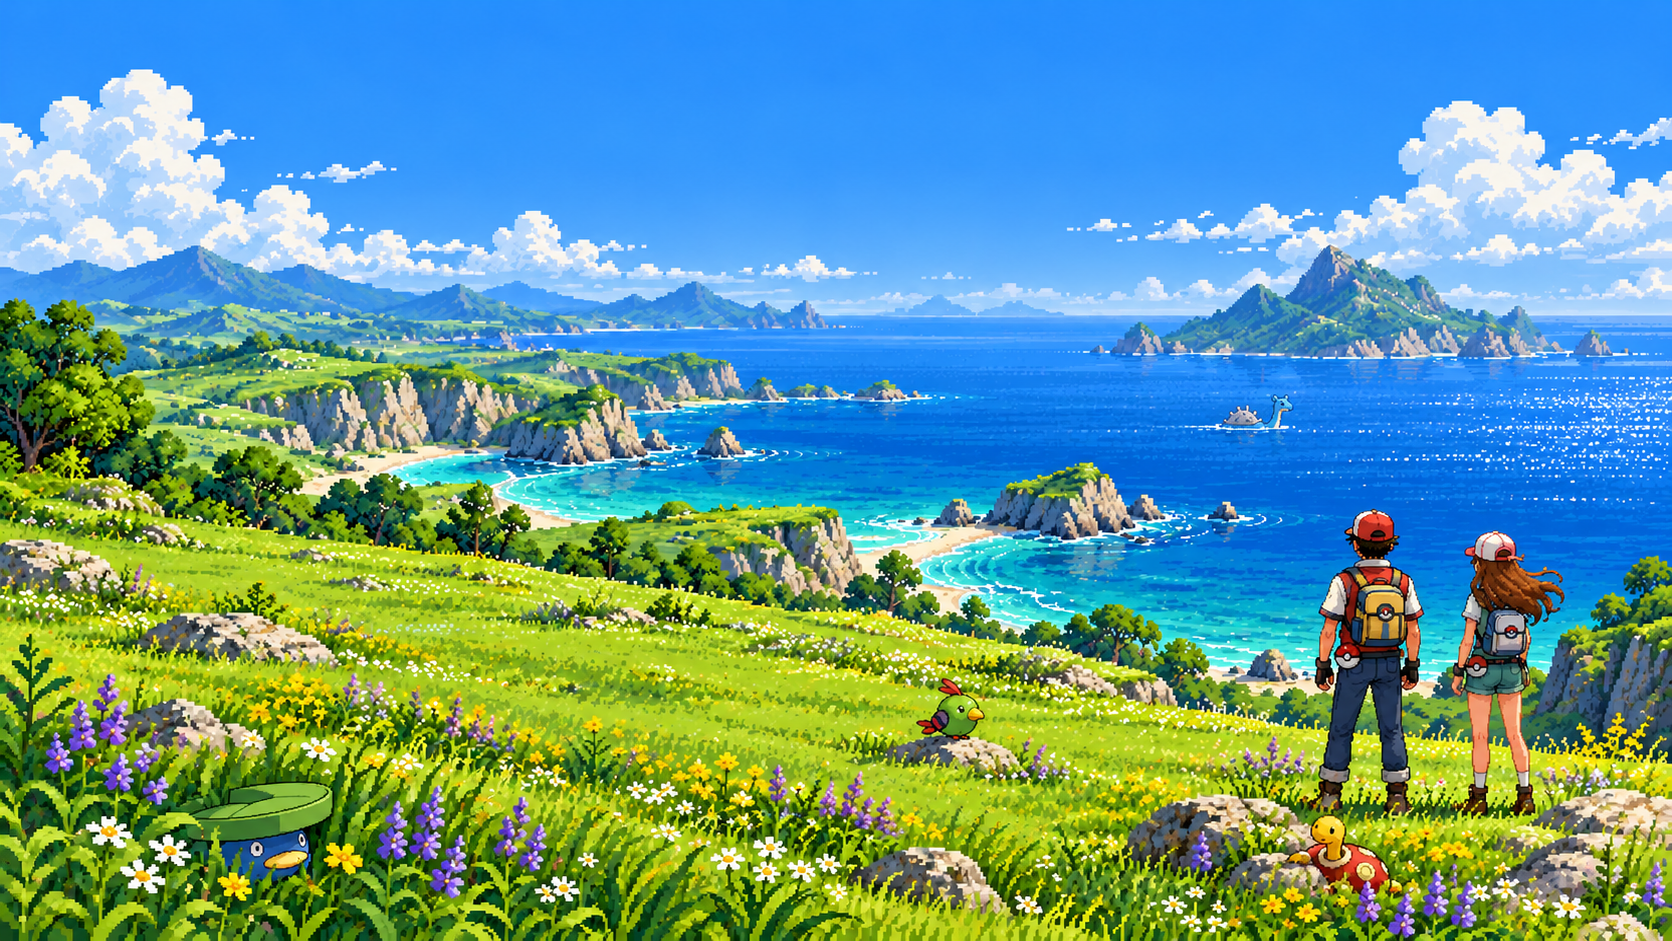
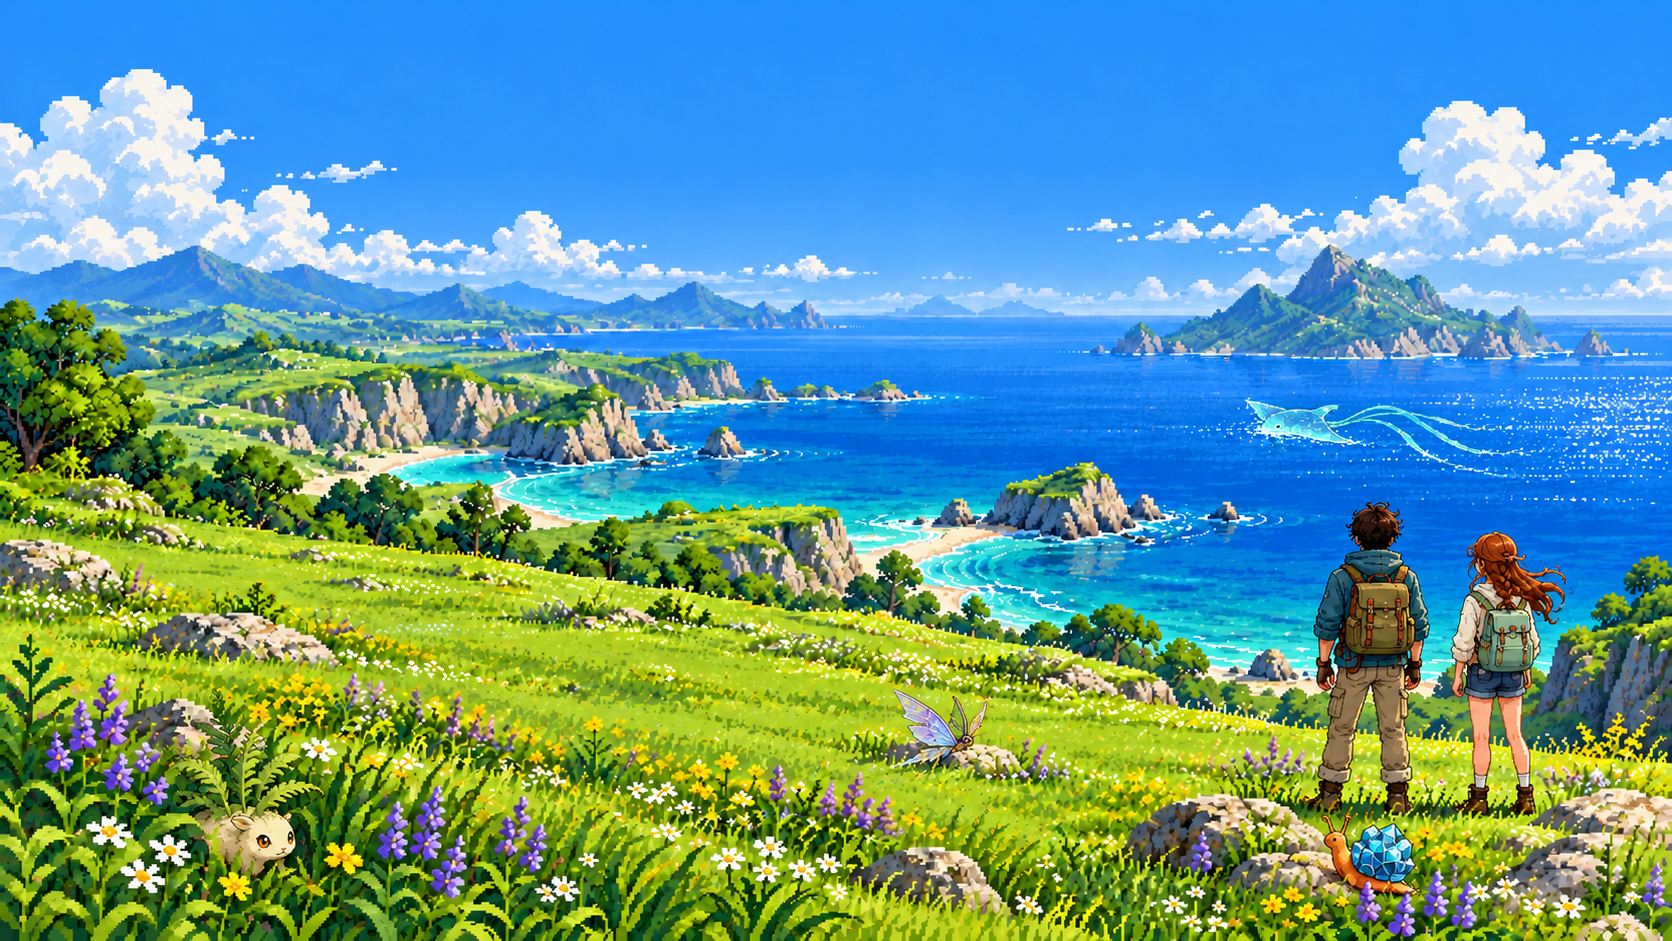
Cambiar identidad a PK Link con paisaje y música originales

diff --git a/index.html b/index.html
@@ -1,17 +1,17 @@
 <!doctype html>
 <html lang="es">
-<head><meta charset="utf-8"><meta name="viewport" content="width=device-width, initial-scale=1"><meta name="description" content="Pokémon Link para Windows: prepara sesiones de intercambio y combate con tus partidas de Pokémon GBA."><link rel="icon" href="link-l.png" type="image/png"><title>Pokémon Link · Intercambia. Combate. Lleva tu aventura más lejos.</title>
+<head><meta charset="utf-8"><meta name="viewport" content="width=device-width, initial-scale=1"><meta name="description" content="PK Link para Windows: prepara sesiones de intercambio y combate con tus partidas de Pokémon GBA."><link rel="icon" href="link-l.png" type="image/png"><title>PK Link · Intercambia. Combate. Lleva tu aventura más lejos.</title>
 <style>
-:root{--ink:#102e3b;--green:#b4f772;--blue:#69dcff;--paper:#f4ffe8}*{box-sizing:border-box}html{scroll-behavior:smooth}body{margin:0;background:var(--paper);color:var(--ink);font:17px/1.65 'Bahnschrift','Segoe UI',sans-serif}a{color:inherit}button,a{touch-action:manipulation}a:focus-visible,summary:focus-visible{outline:4px solid #167dff;outline-offset:5px}header{position:absolute;z-index:2;width:100%;padding:24px 6%;display:flex;align-items:center;justify-content:space-between;gap:20px;color:white;background:linear-gradient(#092b4590,transparent)}.brand{font-weight:900;letter-spacing:2px;text-decoration:none}.nav{display:flex;gap:24px}.nav a{text-decoration:none;font-size:14px;font-weight:700}.hero{min-height:760px;height:95vh;max-height:1060px;position:relative;display:flex;align-items:center;background:#2ea8dd url('inicio.png') center/cover no-repeat}.hero:before{content:'';position:absolute;inset:0;background:linear-gradient(90deg,#062b47df 0%,#062b47a0 42%,#062b4700 80%)}.hero:after{content:'';position:absolute;bottom:0;left:0;right:0;height:14px;background:repeating-linear-gradient(90deg,var(--paper) 0 24px,transparent 24px 48px);border-bottom:7px solid var(--paper)}.hero-content{position:relative;width:min(690px,90%);margin:110px 0 70px 7%;color:white}.logos{width:min(460px,95%);display:flex;align-items:center;flex-direction:column;gap:0;margin-bottom:22px}.pokemon{width:92%;height:auto}.link{width:57%;height:auto;margin-top:-14px}.tag{font:700 12px/1.4 monospace;letter-spacing:2px;text-transform:uppercase;background:#102e3be0;border:1px solid #8adcf3;padding:8px 12px;display:inline-block}h1{font-size:clamp(35px,4.4vw,60px);line-height:1.12;letter-spacing:-2px;margin:22px 0}h1 span{color:var(--green)}.hero p{max-width:470px;color:#e2f7ff;font-size:19px}.actions{display:flex;gap:18px;align-items:center;flex-wrap:wrap;margin-top:30px}.button{display:inline-flex;align-items:center;justify-content:center;padding:15px 24px;font-weight:800;text-decoration:none;background:var(--green);color:#123723;border:3px solid #102e3b;box-shadow:5px 5px 0 #102e3b;border-radius:12px 4px 12px 4px;transition:transform .15s,box-shadow .15s}.button:hover{transform:translate(-2px,-2px);box-shadow:7px 7px 0 #102e3b}.secondary{background:#effcff;color:#17374c}.small{font-size:12px;color:#d9f3ff;margin-top:17px}.wrap{max-width:1120px;margin:auto;padding:72px 28px}.eyebrow{font:800 12px monospace;letter-spacing:3px;color:#3b7668;text-transform:uppercase}h2{font-size:clamp(28px,4vw,43px);line-height:1.2;letter-spacing:-1px;margin:12px 0 24px}.intro{max-width:710px;color:#4d6263}.features{display:grid;grid-template-columns:1fr 1fr;gap:26px;margin-top:35px}.feature{background:white;padding:30px;border:2px solid var(--ink);box-shadow:6px 6px 0 #c4ddb5}.feature h3{font-size:25px;margin:8px 0}.feature p{margin-bottom:0;color:#506361}.pixel-icon{font:bold 32px monospace;color:#15759d}.compat{margin-top:28px;border-left:5px solid #488c51;padding:8px 20px;background:#e4f1d8}.dark{background:#112f40;color:white}.dark .eyebrow{color:var(--blue)}.steps{display:grid;grid-template-columns:repeat(3,1fr);gap:30px;margin-top:34px}.step-num{display:inline-block;font:bold 24px monospace;color:var(--green);border:2px solid #70b285;padding:3px 12px}.steps h3{font-size:21px}.steps p{color:#c3d7de}.note{padding:16px 20px;border:1px solid #5e8491;color:#c3d7de;margin-top:30px}.download{background:#d7f6bb;border:2px solid var(--ink);box-shadow:8px 8px 0 #bdd3ae;padding:36px;display:flex;gap:30px;align-items:center;justify-content:space-between;margin-bottom:56px}.download h2{margin:8px 0;font-size:32px}.download p{margin:6px 0;max-width:640px}.download .button{white-space:nowrap;background:var(--blue)}details{border-top:1px solid #c2d6bb;padding:20px 0}details:last-of-type{border-bottom:1px solid #c2d6bb}summary{cursor:pointer;font-weight:750;font-size:18px}details p{max-width:830px;color:#506361}footer{padding:30px 6%;border-top:2px solid var(--ink);font-size:12px;color:#596d63;display:flex;justify-content:space-between;gap:28px}footer p{margin:0;max-width:760px}@media(max-width:760px){header{padding:18px 6%}.nav{gap:14px}.nav a{font-size:12px}.hero{height:auto;min-height:760px;background-position:65% center}.hero:before{background:linear-gradient(90deg,#062b47df,#062b4770)}.hero-content{margin:130px 6% 70px;width:88%}.features,.steps{grid-template-columns:1fr}.wrap{padding:50px 22px}.download{display:block;padding:25px}.download .button{margin-top:22px}footer{flex-direction:column}.logos{width:330px;max-width:100%}}@media(prefers-reduced-motion:reduce){html{scroll-behavior:auto}.button{transition:none}}
+:root{--ink:#102e3b;--green:#b4f772;--blue:#69dcff;--paper:#f4ffe8}*{box-sizing:border-box}html{scroll-behavior:smooth}body{margin:0;background:var(--paper);color:var(--ink);font:17px/1.65 'Bahnschrift','Segoe UI',sans-serif}a{color:inherit}button,a{touch-action:manipulation}a:focus-visible,summary:focus-visible{outline:4px solid #167dff;outline-offset:5px}header{position:absolute;z-index:2;width:100%;padding:24px 6%;display:flex;align-items:center;justify-content:space-between;gap:20px;color:white;background:linear-gradient(#092b4590,transparent)}.brand{font-weight:900;letter-spacing:2px;text-decoration:none}.nav{display:flex;gap:24px}.nav a{text-decoration:none;font-size:14px;font-weight:700}.hero{min-height:760px;height:95vh;max-height:1060px;position:relative;display:flex;align-items:center;background:#2ea8dd url('inicio.png') center/cover no-repeat}.hero:before{content:'';position:absolute;inset:0;background:linear-gradient(90deg,#062b47df 0%,#062b47a0 42%,#062b4700 80%)}.hero:after{content:'';position:absolute;bottom:0;left:0;right:0;height:14px;background:repeating-linear-gradient(90deg,var(--paper) 0 24px,transparent 24px 48px);border-bottom:7px solid var(--paper)}.hero-content{position:relative;width:min(690px,90%);margin:110px 0 70px 7%;color:white}.logos{width:min(460px,95%);display:flex;align-items:center;flex-direction:column;gap:0;margin-bottom:22px}.pk{width:92%;height:auto}.link{width:57%;height:auto;margin-top:-14px}.tag{font:700 12px/1.4 monospace;letter-spacing:2px;text-transform:uppercase;background:#102e3be0;border:1px solid #8adcf3;padding:8px 12px;display:inline-block}h1{font-size:clamp(35px,4.4vw,60px);line-height:1.12;letter-spacing:-2px;margin:22px 0}h1 span{color:var(--green)}.hero p{max-width:470px;color:#e2f7ff;font-size:19px}.actions{display:flex;gap:18px;align-items:center;flex-wrap:wrap;margin-top:30px}.button{display:inline-flex;align-items:center;justify-content:center;padding:15px 24px;font-weight:800;text-decoration:none;background:var(--green);color:#123723;border:3px solid #102e3b;box-shadow:5px 5px 0 #102e3b;border-radius:12px 4px 12px 4px;transition:transform .15s,box-shadow .15s}.button:hover{transform:translate(-2px,-2px);box-shadow:7px 7px 0 #102e3b}.secondary{background:#effcff;color:#17374c}.small{font-size:12px;color:#d9f3ff;margin-top:17px}.wrap{max-width:1120px;margin:auto;padding:72px 28px}.eyebrow{font:800 12px monospace;letter-spacing:3px;color:#3b7668;text-transform:uppercase}h2{font-size:clamp(28px,4vw,43px);line-height:1.2;letter-spacing:-1px;margin:12px 0 24px}.intro{max-width:710px;color:#4d6263}.features{display:grid;grid-template-columns:1fr 1fr;gap:26px;margin-top:35px}.feature{background:white;padding:30px;border:2px solid var(--ink);box-shadow:6px 6px 0 #c4ddb5}.feature h3{font-size:25px;margin:8px 0}.feature p{margin-bottom:0;color:#506361}.pixel-icon{font:bold 32px monospace;color:#15759d}.compat{margin-top:28px;border-left:5px solid #488c51;padding:8px 20px;background:#e4f1d8}.dark{background:#112f40;color:white}.dark .eyebrow{color:var(--blue)}.steps{display:grid;grid-template-columns:repeat(3,1fr);gap:30px;margin-top:34px}.step-num{display:inline-block;font:bold 24px monospace;color:var(--green);border:2px solid #70b285;padding:3px 12px}.steps h3{font-size:21px}.steps p{color:#c3d7de}.note{padding:16px 20px;border:1px solid #5e8491;color:#c3d7de;margin-top:30px}.download{background:#d7f6bb;border:2px solid var(--ink);box-shadow:8px 8px 0 #bdd3ae;padding:36px;display:flex;gap:30px;align-items:center;justify-content:space-between;margin-bottom:56px}.download h2{margin:8px 0;font-size:32px}.download p{margin:6px 0;max-width:640px}.download .button{white-space:nowrap;background:var(--blue)}details{border-top:1px solid #c2d6bb;padding:20px 0}details:last-of-type{border-bottom:1px solid #c2d6bb}summary{cursor:pointer;font-weight:750;font-size:18px}details p{max-width:830px;color:#506361}footer{padding:30px 6%;border-top:2px solid var(--ink);font-size:12px;color:#596d63;display:flex;justify-content:space-between;gap:28px}footer p{margin:0;max-width:760px}@media(max-width:760px){header{padding:18px 6%}.nav{gap:14px}.nav a{font-size:12px}.hero{height:auto;min-height:760px;background-position:65% center}.hero:before{background:linear-gradient(90deg,#062b47df,#062b4770)}.hero-content{margin:130px 6% 70px;width:88%}.features,.steps{grid-template-columns:1fr}.wrap{padding:50px 22px}.download{display:block;padding:25px}.download .button{margin-top:22px}footer{flex-direction:column}.logos{width:330px;max-width:100%}}@media(prefers-reduced-motion:reduce){html{scroll-behavior:auto}.button{transition:none}}
 .creator{position:absolute;right:5%;bottom:35px;display:flex;align-items:center;gap:12px;color:white;font-size:12px;font-weight:700;text-shadow:0 2px 3px #092b45}.creator img{width:110px;height:48px;object-fit:contain}.brand-icon{width:32px;height:32px;vertical-align:middle;margin-right:8px}.feature{border-radius:20px 6px 20px 6px}.button{font-family:Bahnschrift,Segoe UI,sans-serif}.feature .pixel-icon{display:none}@media(max-width:760px){.creator{bottom:24px;right:6%}.hero-content{margin-bottom:105px}}
 </style></head>
 <body>
 <header><a class="brand" href="#inicio"><img class="brand-icon" src="link-l.png" alt="" width="32" height="32">POKÉMON LINK</a><nav class="nav" aria-label="Navegación principal"><a href="#como">Cómo funciona</a><a href="#descargar">Descargar</a></nav></header>
 <main>
-<section class="hero" id="inicio"><div class="hero-content"><div class="logos"><img class="pokemon" src="pokemon-logo.png" alt="Pokémon" width="960" height="353"><img class="link" src="link-logo.png" alt="Link" width="2098" height="750"></div><div class="tag">Tus partidas · Una aventura compartida</div><h1>Intercambia.<br>Combate.<br><span>Lleva tu aventura más lejos.</span></h1><p>Prepara intercambios y combates en tu PC con las partidas que ya juegas en tu consola portátil.</p><div class="actions"><a class="button download-link" href="https://github.com/DaveWall90/pokemon-link-web/releases/download/v0.3.0/Pokemon-Link-Instalador.exe" download>↓ Descargar para Windows</a><a href="#como">Ver cómo funciona →</a></div><div class="small">Versión 0.3.0 · Windows de 64 bits · Instalador de 119 MB</div></div><div class="creator"><span>Creado por</span><img src="ti-logo.png" alt="T&I" width="110" height="48"></div></section>
-<section class="wrap"><div class="eyebrow">Dos jugadores. Tus propias partidas.</div><h2>De la portátil al encuentro.</h2><p class="intro">Pokémon Link reúne la selección de juegos, la preparación de las partidas y los emuladores en un mismo lugar. Trabaja con copias y te permite exportar los guardados al terminar.</p><div class="features"><article class="feature"><div class="pixel-icon" aria-hidden="true">⇄</div><h3>Intercambiar</h3><p>Selecciona una partida por jugador. El programa abre las dos ventanas enlazadas de mGBA; el intercambio se completa dentro de los juegos.</p></article><article class="feature"><div class="pixel-icon" aria-hidden="true">⚔</div><h3>Combatir</h3><p>Prepara el combate clásico. También puedes configurar Colosseum/XD con Dolphin para el modo 3D, cuya conexión completa todavía está en pruebas.</p></article></div><div class="compat"><strong>Esta versión trabaja con Pokémon de GBA:</strong> Rojo Fuego, Verde Hoja, Rubí, Zafiro y Esmeralda. No todas las combinaciones permiten enlazar sin cumplir requisitos dentro del juego.</div></section>
-<section class="dark" id="como"><div class="wrap"><div class="eyebrow">El camino al Centro Pokémon</div><h2>Tres pasos para empezar.</h2><div class="steps"><article><span class="step-num">01</span><h3>Trae tus partidas</h3><p>Guarda dentro del juego y apaga correctamente la consola. Conecta la tarjeta con un lector o elige la carpeta donde tienes los juegos y guardados.</p></article><article><span class="step-num">02</span><h3>Elige a los jugadores</h3><p>Abre Intercambiar o Combatir, sincroniza y selecciona el juego y la partida de cada jugador. Usa teclado o mandos compatibles de PC.</p></article><article><span class="step-num">03</span><h3>Guarda y exporta</h3><p>Completa la sesión en el emulador, guarda dentro de ambos juegos y ciérralo. Exporta las partidas a las tarjetas desde Pokémon Link.</p></article></div><div class="note">mGBA y Dolphin vienen incluidos. Los juegos y la BIOS de GBA se añaden aparte. La lectura por USB depende de tu consola y de su configuración; el lector de tarjetas es la alternativa.</div></div></section>
-<section class="wrap" id="descargar"><div class="download"><div><div class="eyebrow">Listo para tu PC</div><h2>Descarga Pokémon Link.</h2><p>Una interfaz renovada con controles de sonido pixel art, ayuda dentro de Ajustes y la firma T&I. El instalador incluye los emuladores y accesos directos. Tus sesiones y ajustes se conservan al desinstalar.</p><p><small>Windows de 64 bits · Versión 0.3.0 · 119 MB</small></p></div><a class="button download-link" href="https://github.com/DaveWall90/pokemon-link-web/releases/download/v0.3.0/Pokemon-Link-Instalador.exe" download>↓ Descargar</a></div><div class="eyebrow">Antes de empezar</div><h2>Lo que conviene saber.</h2><details><summary>¿Funciona con cualquier consola portátil?</summary><p>Puede utilizar los juegos y guardados compatibles que estén accesibles en el PC. No convierte cualquier conexión USB en acceso a las tarjetas ni utiliza las consolas como mandos. Si el PC no ve los archivos, usa un lector de tarjetas.</p></details><details><summary>¿Ya está todo probado?</summary><p>Están comprobados el instalador y la preparación de los guardados. La prueba completa de intercambio y combate sigue pendiente. El modo 3D de Colosseum/XD requiere sus archivos y una prueba real de conexión; Stadium y Stadium 2 aún no están integrados.</p></details><details><summary>¿Qué guardado necesito?</summary><p>El guardado creado desde el menú del propio juego, normalmente .sav o .srm. Los estados rápidos del emulador no sirven. Guarda antes de apagar la consola.</p></details><details><summary>¿Incluye los juegos?</summary><p>No. El instalador incluye la aplicación, los emuladores, sus licencias y fuentes. Añade tus archivos de juegos y, para Colosseum/XD, la BIOS de GBA. No subas tus partidas a esta web: la aplicación trabaja en tu PC.</p></details></section>
-</main><footer><p>Pokémon Link · Proyecto fan no oficial. Pokémon y sus personajes pertenecen a sus respectivos titulares. Sin afiliación con Nintendo, Game Freak o The Pokémon Company.</p><a href="#inicio">Volver arriba ↑</a></footer>
+<section class="hero" id="inicio"><div class="hero-content"><div class="logos"><img class="pk" src="pk-logo.png" alt="PK" width="960" height="353"><img class="link" src="link-logo.png" alt="Link" width="2098" height="750"></div><div class="tag">Tus partidas · Una aventura compartida</div><h1>Intercambia.<br>Combate.<br><span>Lleva tu aventura más lejos.</span></h1><p>Prepara intercambios y combates en tu PC con las partidas que ya juegas en tu consola portátil.</p><div class="actions"><a class="button download-link" href="downloads/PK-Link-Instalador.exe" download>↓ Descargar para Windows</a><a href="#como">Ver cómo funciona →</a></div><div class="small">Versión 0.4.0 · Windows de 64 bits · Instalador de 119 MB</div></div><div class="creator"><span>Creado por</span><img src="ti-logo.png" alt="T&I" width="110" height="48"></div></section>
+<section class="wrap"><div class="eyebrow">Dos jugadores. Tus propias partidas.</div><h2>De la portátil al encuentro.</h2><p class="intro">PK Link reúne la selección de juegos, la preparación de las partidas y los emuladores en un mismo lugar. Trabaja con copias y te permite exportar los guardados al terminar.</p><div class="features"><article class="feature"><div class="pixel-icon" aria-hidden="true">⇄</div><h3>Intercambiar</h3><p>Selecciona una partida por jugador. El programa abre las dos ventanas enlazadas de mGBA; el intercambio se completa dentro de los juegos.</p></article><article class="feature"><div class="pixel-icon" aria-hidden="true">⚔</div><h3>Combatir</h3><p>Prepara el combate clásico. También puedes configurar Colosseum/XD con Dolphin para el modo 3D, cuya conexión completa todavía está en pruebas.</p></article></div><div class="compat"><strong>Esta versión trabaja con Pokémon de GBA:</strong> Rojo Fuego, Verde Hoja, Rubí, Zafiro y Esmeralda. No todas las combinaciones permiten enlazar sin cumplir requisitos dentro del juego.</div></section>
+<section class="dark" id="como"><div class="wrap"><div class="eyebrow">Tu próxima sesión</div><h2>Tres pasos para empezar.</h2><div class="steps"><article><span class="step-num">01</span><h3>Trae tus partidas</h3><p>Guarda dentro del juego y apaga correctamente la consola. Conecta la tarjeta con un lector o elige la carpeta donde tienes los juegos y guardados.</p></article><article><span class="step-num">02</span><h3>Elige a los jugadores</h3><p>Abre Intercambiar o Combatir, sincroniza y selecciona el juego y la partida de cada jugador. Usa teclado o mandos compatibles de PC.</p></article><article><span class="step-num">03</span><h3>Guarda y exporta</h3><p>Completa la sesión en el emulador, guarda dentro de ambos juegos y ciérralo. Exporta las partidas a las tarjetas desde PK Link.</p></article></div><div class="note">mGBA y Dolphin vienen incluidos. Los juegos y la BIOS de GBA se añaden aparte. La lectura por USB depende de tu consola y de su configuración; el lector de tarjetas es la alternativa.</div></div></section>
+<section class="wrap" id="descargar"><div class="download"><div><div class="eyebrow">Listo para tu PC</div><h2>Descarga PK Link.</h2><p>Una interfaz renovada con controles de sonido pixel art, ayuda dentro de Ajustes y la firma T&I. El instalador incluye los emuladores y accesos directos. Tus sesiones y ajustes se conservan al desinstalar.</p><p><small>Windows de 64 bits · Versión 0.4.0 · 119 MB</small></p></div><a class="button download-link" href="downloads/PK-Link-Instalador.exe" download>↓ Descargar</a></div><div class="eyebrow">Antes de empezar</div><h2>Lo que conviene saber.</h2><details><summary>¿Funciona con cualquier consola portátil?</summary><p>Puede utilizar los juegos y guardados compatibles que estén accesibles en el PC. No convierte cualquier conexión USB en acceso a las tarjetas ni utiliza las consolas como mandos. Si el PC no ve los archivos, usa un lector de tarjetas.</p></details><details><summary>¿Ya está todo probado?</summary><p>Están comprobados el instalador y la preparación de los guardados. La prueba completa de intercambio y combate sigue pendiente. El modo 3D de Colosseum/XD requiere sus archivos y una prueba real de conexión; Stadium y Stadium 2 aún no están integrados.</p></details><details><summary>¿Qué guardado necesito?</summary><p>El guardado creado desde el menú del propio juego, normalmente .sav o .srm. Los estados rápidos del emulador no sirven. Guarda antes de apagar la consola.</p></details><details><summary>¿Incluye los juegos?</summary><p>No. El instalador incluye la aplicación, los emuladores, sus licencias y fuentes. Añade tus archivos de juegos y, para Colosseum/XD, la BIOS de GBA. No subas tus partidas a esta web: la aplicación trabaja en tu PC.</p></details></section>
+</main><footer><p>PK Link · Creado por T&I. Aplicación independiente. Diseño visual y música originales. Los nombres de juegos se utilizan únicamente para describir compatibilidad.</p><a href="#inicio">Volver arriba ↑</a></footer>
 <script>fetch('site-config.json').then(r=>r.ok?r.json():null).then(c=>{if(c&&/^https:\/\/github\.com\//.test(c.downloadUrl)){document.querySelectorAll('.download-link').forEach(a=>{a.href=c.downloadUrl;a.removeAttribute('download')})}}).catch(()=>{});</script>
 </body></html>

diff --git a/README.md b/README.md
@@ -1,2 +1,2 @@
-# pokemon-link-web
-Web y descargas de Pokémon Link para Windows. Proyecto fan no oficial.
+# PK Link
+Web y descargas de PK Link para Windows. Creado por T&I. Identidad visual y música originales. Herramienta independiente que trabaja con los archivos aportados por el usuario.
